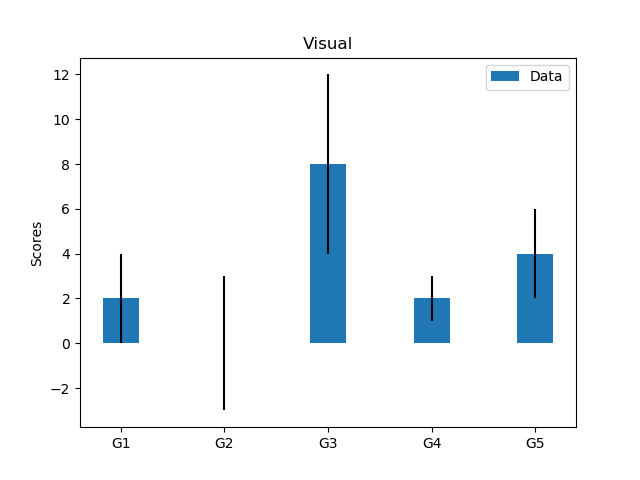
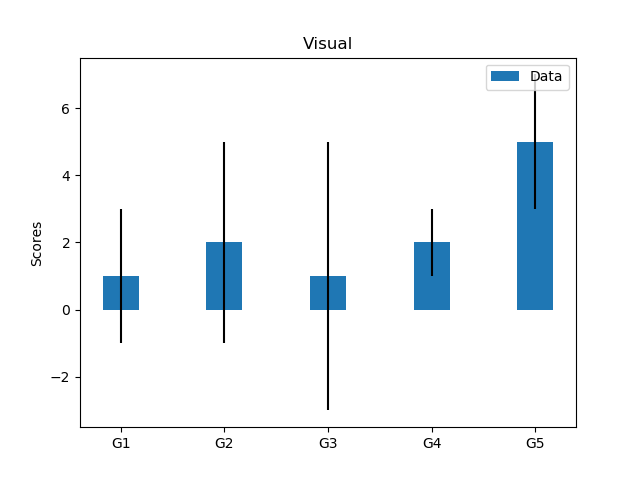
first commit

diff --git a/example.py b/example.py
@@ -2,7 +2,7 @@ import numpy as np
 import matplotlib.pyplot as plt
 
 labels = ['G1', 'G2', 'G3', 'G4', 'G5']
-m_means = [2,0,8,2,4]
+m_means = [1,2,1,2,5]
 m_std = [2, 3, 4, 1, 2]
 width = 0.35       # the width of the bars
 

diff --git a/README.md b/README.md
@@ -1,4 +1,4 @@
-# Plot no 194 
+# Plot no 195 
 
 matplotlib example
 
